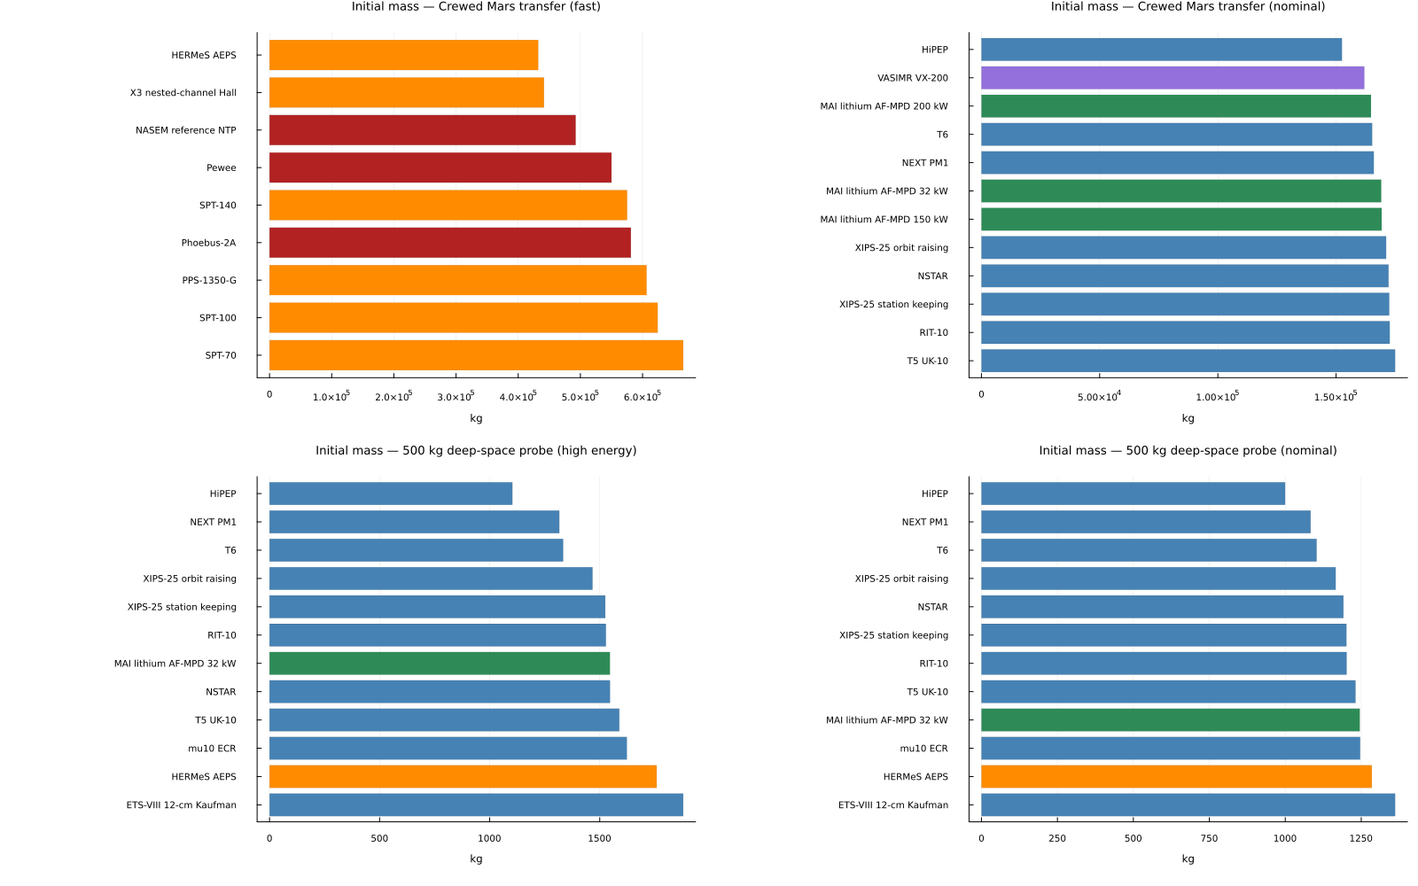
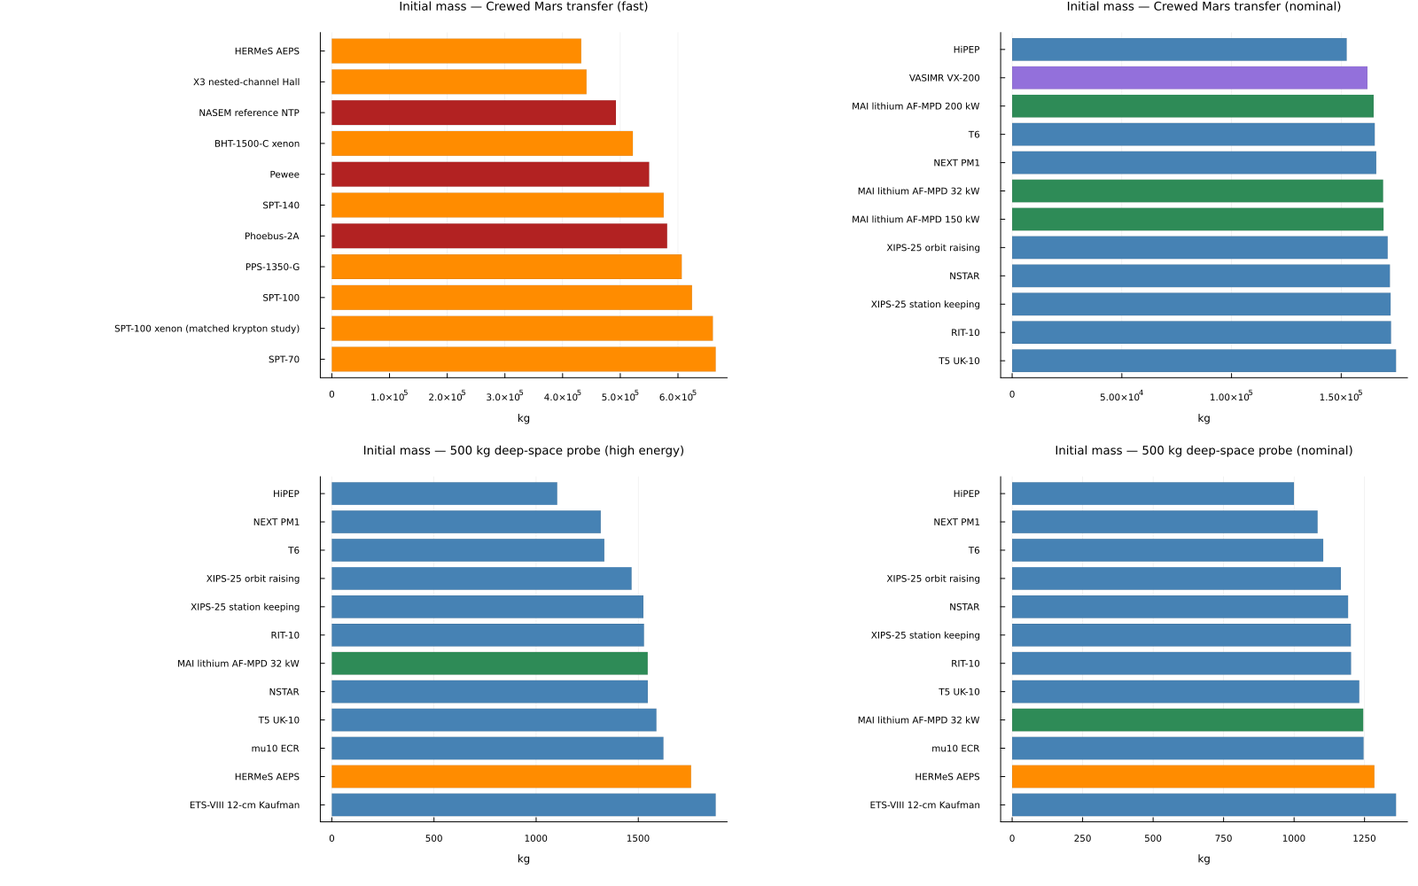
Add measured krypton operating points with matched xenon controls
Three measured krypton points, each paired with a xenon control taken on the same
thruster in the same facility, so the propellant comparison needs no correction
factor. 26 thrusters becomes 31, 104 result rows becomes 124.

spt100_kr_390v has thrust, Isp, power and efficiency all measured and mutually
consistent to 0.00025, from the 205-hour SPT-100 krypton life test. The derived
xenon thrust in the nominal pair reproduces the 80 mN flight figure cited
independently in S01, which validates the derivation used across the dataset.

Krypton wins on mass in every pair and loses on time in every one, and the sign
reverses where the time cap binds: on the fast Mars mission all three krypton rows
fail the 210-day limit while all three xenon controls pass. The comparison carries
no tank model, and krypton asks 2.2 times the volume for the propellant it saves.

Headline recommendations are unchanged; krypton enters no Mars top six.

Adds sources S30-S32, updates S12 with authors, adds the krypton_vs_xenon figure,
and rewrites the krypton sections of both documents.

diff --git a/docs/findings.md b/docs/findings.md
@@ -19,16 +19,16 @@ The database is not version controlled; it is rebuilt from `sql/schema.sql` and 
 
 ## What was computed, and on what assumptions
 
-For each of 4 missions and each of 26 thrusters that records a specific impulse, the
+For each of 4 missions and each of 31 thrusters that records a specific impulse, the
 pipeline computes exhaust velocity, Tsiolkovsky mass ratio, propellant mass fraction,
 propellant and initial mass, thruster count, total thrust and power, and power-limited
-thrusting time. That is 104 rows, of which 86 are feasible.
+thrusting time. That is 124 rows, of which 103 are feasible.
 
 Three assumptions carry the result. None is a measurement.
 
 Power plant specific mass is taken as 20 kg/kW for nuclear electric and 12 kg/kW for solar
 electric. Thruster plus power processing dry mass, where a source does not give one, is
-taken as 5 kg/kW; this applies to 24 of the 26 rows. Mission payload masses, delta-v and
+taken as 5 kg/kW; this applies to 29 of the 31 rows. Mission payload masses, delta-v and
 trip-time caps are stated project assumptions, with only the 2 MWe and 6 MWe power levels
 traceable to a source [S18].
 
@@ -41,7 +41,7 @@ support. NTP can therefore be compared on mass here, and cannot be compared on t
 
 ## Crewed Mars transfer, nominal
 
-90 t payload, 7000 m/s, 2 MWe, 365-day cap. 25 of 26 candidates are feasible; the only
+90 t payload, 7000 m/s, 2 MWe, 365-day cap. 30 of 31 candidates are feasible; the only
 failure is the NPT30-I2, a 1 mN cubesat thruster that has no business on this mission.
 
 | rank | thruster | type | propellant | initial mass kg | propellant kg | mass fraction | days | units |
@@ -65,7 +65,7 @@ VASIMR and the two lithium MPD thrusters, are the least mature hardware in the s
 
 ## Crewed Mars transfer, fast
 
-90 t payload, 15 000 m/s, 6 MWe, 210-day cap. Only 9 of 26 are feasible, and the pattern of
+90 t payload, 15 000 m/s, 6 MWe, 210-day cap. Only 11 of 31 are feasible, and the pattern of
 failure is the result.
 
 | rank | thruster | type | propellant | initial mass kg | propellant kg | mass fraction | days | units |
@@ -73,11 +73,13 @@ failure is the result.
 | 1 | HERMeS AEPS | Hall | xenon | 432 221 | 192 221 | 0.445 | 196.9 | 480 |
 | 2 | X3 nested-channel Hall | Hall | xenon | 441 420 | 201 720 | 0.457 | 177.0 | 60 |
 | 3 | NASEM reference NTP | nuclear thermal | hydrogen | 492 422 | 402 422 | 0.817 | not evaluated | - |
-| 4 | Pewee | nuclear thermal | hydrogen | 550 021 | 460 021 | 0.836 | not evaluated | - |
-| 5 | SPT-140 | Hall | xenon | 575 179 | 335 179 | 0.583 | 173.1 | 1200 |
-| 6 | Phoebus-2A | nuclear thermal | hydrogen | 581 229 | 491 229 | 0.845 | not evaluated | - |
+| 4 | BHT-1500-C xenon | Hall | xenon | 521 683 | 281 686 | 0.540 | 186.8 | 3333 |
+| 5 | Pewee | nuclear thermal | hydrogen | 550 021 | 460 021 | 0.836 | not evaluated | - |
+| 6 | SPT-140 | Hall | xenon | 575 179 | 335 179 | 0.583 | 173.1 | 1200 |
+| 7 | Phoebus-2A | nuclear thermal | hydrogen | 581 229 | 491 229 | 0.845 | not evaluated | - |
 
-Every gridded ion thruster fails, as do all three lithium MPD thrusters and VASIMR. They
+Every gridded ion thruster fails, as do all three lithium MPD thrusters, VASIMR and all
+three krypton rows, each of which fails where its matched xenon control passes. They
 fail on time, not on mass. The power-limited thrusting time scales with the square of
 exhaust velocity at fixed power, so the high specific impulse that wins the nominal mission
 is exactly what loses the fast one. The survivors are the low-Isp, high-thrust-density Hall
@@ -129,12 +131,62 @@ and T6 are second and third at a cost of 8 % and 10 % in initial mass, and both 
 qualified hardware, with T6 flying on BepiColombo [S26] and NEXT having completed its
 ground qualification [S02]. For a 500 kg probe the defensible choice is NEXT or T6.
 
+## Krypton against xenon on matched hardware
+
+The dataset carries three measured krypton operating points, each with a xenon control taken
+on the same thruster in the same facility, so the propellant can be compared without going
+through a correction factor. The pairs behave the same way on both reference missions.
+
+Crewed Mars nominal:
+
+| thruster | propellant | Isp s | efficiency | initial mass kg | propellant kg | days | units |
+|---|---|---|---|---|---|---|---|
+| BHT-1500-C | krypton | 2160 | 0.474 | 194 817 | 54 823 | 150.3 | 1052 |
+| BHT-1500-C | xenon | 1970 | 0.543 | 201 134 | 61 135 | 121.6 | 1111 |
+| SPT-100 nominal | krypton | 1568 | 0.360 | 220 705 | 80 712 | 153.5 | 1474 |
+| SPT-100 nominal | xenon | 1511 | 0.440 | 224 534 | 84 537 | 122.1 | 1480 |
+
+500 kg probe nominal:
+
+| thruster | propellant | initial mass kg | propellant kg | days | units |
+|---|---|---|---|---|---|
+| BHT-1500-C | krypton | 1471 | 636 | 183.5 | 10 |
+| BHT-1500-C | xenon | 1561 | 722 | 145.1 | 11 |
+| SPT-100 nominal | krypton | 1822 | 987 | 197.6 | 14 |
+| SPT-100 nominal | xenon | 1876 | 1041 | 159.0 | 14 |
+
+Krypton wins on mass in every pair, by 3.1 % for the BHT-1500-C and 1.7 % for the SPT-100 on
+the crewed mission, and loses on time by 24 % and 26 %. That split follows from the structure
+of the model rather than from anything subtle. At a fixed available power, specific impulse
+sets propellant mass and efficiency sets thrust, so krypton's higher specific impulse shows
+up as less propellant while its lower efficiency shows up as a longer burn. Wherever the
+trip-time cap is slack, krypton looks better.
+
+Where the cap binds, the sign reverses completely. On the fast Mars mission all three krypton
+rows fail the 210-day limit while all three xenon controls pass: the BHT-1500-C needs 225.8
+days on krypton against 186.8 on xenon, and the SPT-100 at 393 V needs 239.5 against 202.4.
+Krypton is not a drop-in substitution whose cost is a fixed efficiency penalty; it moves a
+vehicle along the mass-against-time trade, and which direction counts as better depends
+entirely on which constraint is active.
+
+Two things keep this from being a recommendation. The first is tankage, which the model does
+not carry. For the probe, the BHT-1500-C needs 636 kg of krypton in 0.98 m³ against 722 kg of
+xenon in 0.45 m³ at the storage densities in the propellants table, so krypton saves 86 kg of
+propellant while asking for 2.2 times the tank volume. Whether the tank mass for that volume
+is under 86 kg decides the comparison, and no source consulted gives tank mass for a krypton
+system. The second is that krypton reaches no higher than fourteenth on the probe and does not
+enter the top six on either Mars mission. The leaders everywhere are high-Isp gridded ion
+thrusters on xenon, and adding krypton moved none of them.
+
+`docs/figures/krypton_vs_xenon.png` plots the pairs across all three missions, with the rows
+that fail their time cap drawn pale.
+
 ## Agreement between the implementations
 
 The Scala and Julia pipelines implement the relations separately rather than sharing code.
 The Julia test suite joins both producers' rows in the `results` table and requires
-agreement to 1e-9 relative. All 104 rows agree on initial mass, propellant mass, trip time
-and thruster count. 878 Julia tests and 26 Scala self-tests pass, and SQL validation
+agreement to 1e-9 relative. All 124 rows agree on initial mass, propellant mass, trip time
+and thruster count. 1038 Julia tests and 26 Scala self-tests pass, and SQL validation
 reports no errors over 17 checks.
 
 The Lean development proves the relations the comparison uses, including
@@ -168,8 +220,8 @@ The probe rankings do not move. HiPEP, NEXT and T6 hold the top three places acr
 combination tried, with only the fourth and fifth places exchanging. The probe conclusion
 can be relied on; the crewed Mars conclusion cannot.
 
-Figures are in `docs/figures`: `trip_time.png`, `initial_mass.png`, `propellant_mass.png`
-and `isp_vs_trip_time.png`.
+Figures are in `docs/figures`: `trip_time.png`, `initial_mass.png`, `propellant_mass.png`,
+`isp_vs_trip_time.png` and `krypton_vs_xenon.png`.
 
 ## The three unknowns that would most change these results
 
@@ -184,8 +236,8 @@ crewed NEP trip time, including the ones here, rests on an assumed value. A grou
 demonstration at even 100 kWe with measured mass, including radiators and power
 conditioning, would settle more about crewed Mars propulsion than any thruster programme.
 
-**Thruster and power-processing dry mass.** The dataset records a dry mass for 2 of 26
-thrusters. The other 24 use an assumed 5 kg/kW, and the validation run emits 26
+**Thruster and power-processing dry mass.** The dataset records a dry mass for 2 of 31
+thrusters. The other 29 use an assumed 5 kg/kW, and the validation run emits 29
 `dry_mass_unknown` warnings to make that visible. The gap is in the literature rather than
 in the transcription: performance papers report thrust, specific impulse, power and
 efficiency, and very often omit mass. Because the assumption scales with power, it
@@ -211,17 +263,27 @@ propellant mass by thruster count gives what each unit must process:
 | Mars nominal | PPS-1350-G | 1333 | 57 |
 | Mars nominal | NSTAR | 860 | 41 |
 
-The only in-flight throughput figure in the dataset is the PPS-1350-G, which processed 82 kg
-of xenon over about 5000 hours on SMART-1 [S01]. The candidates that need fewest units, and
-that look best on mass, are the ones requiring one to two orders of magnitude more
-throughput per unit than that, from hardware whose life has never been characterised: the
-X3 at 2306 kg per unit, with cathodes drawing 247 A that are a research item rather than a
-product [S08], and the lithium MPD thrusters at 2553 kg per unit, whose published test
-durations are short and whose electrode erosion is largely uncharacterised [S13]. Running
-the trade the other way, the thrusters whose throughput requirement sits inside demonstrated
-experience are the ones needing hundreds or thousands of units. Qualified throughput per
-thruster, measured to the duration a Mars mission actually needs, would decide between those
-two bad options, and nothing in the present data can.
+The throughput actually demonstrated is far below all of this. The best-qualified figure in
+the dataset is the SPT-100, validated past 2.71 MN·s of total impulse, about 9000 hours at its
+nominal condition [S31]; at its measured 1511 s that is roughly 183 kg of xenon per thruster.
+The PPS-1350-G accumulated 82 kg over about 5000 hours in flight on SMART-1 [S01]. The
+candidates that need fewest units, and that look best on mass, are the ones requiring one to
+two orders of magnitude more throughput per unit than those figures, from hardware whose life
+has never been characterised: the X3 at 2306 kg per unit, with cathodes drawing 247 A that are
+a research item rather than a product [S08], and the lithium MPD thrusters at 2553 kg per unit,
+whose published test durations are short and whose electrode erosion is largely
+uncharacterised [S13]. Running the trade the other way, the thrusters whose throughput
+requirement sits inside demonstrated experience are the ones needing hundreds or thousands of
+units.
+
+Krypton makes this worse rather than better. It cuts propellant mass per unit, which helps,
+but the longest published krypton run on any thruster is the 205 hours the SPT-100 managed at
+2 kW [S31], against roughly 9000 hours qualified on xenon. The same paper notes that running
+its example mission on krypton would put as much energy through the thruster as 8800 hours of
+nominal xenon operation, and that whether the hardware survives that is unknown [S31].
+Qualified throughput per thruster, measured to the duration a Mars mission actually needs and
+on the propellant actually proposed, would decide between these options, and nothing in the
+present data can.
 
 ## What this comparison does not settle
 
@@ -238,8 +300,13 @@ The delta-v figures and payload masses are project assumptions. They are decompo
 named legs in `DELTA_V_BUDGETS` and checked against the database, which makes them explicit
 and auditable, but it does not make them right.
 
-Krypton and iodine appear in the propellants table and in the survey, but no krypton
-thruster is in the dataset, because the krypton literature reports efficiency as a range
-against xenon rather than as a standalone operating point [S12]. A krypton comparison would
-need measured krypton performance for a specific thruster, not a penalty applied to a xenon
-number.
+Krypton is compared here without a tank model, which is the one thing that could overturn the
+matched-pair result above. Iodine appears in the propellants table and in the survey but
+contributes only the NPT30-I2, a 1 mN cubesat thruster that fails both reference missions on
+thrust; there is no kilowatt-class iodine operating point to add, because none has been
+published [S11].
+
+Argon is represented only by VASIMR, which is a 200 kW laboratory device run in one-to-two
+minute pulses [S15]. Its third place on the crewed Mars nominal mission rests on a peak
+performance point, not on anything sustained, and the longest continuous run of the follow-on
+hardware was 88 hours at 80 kW [S16].

diff --git a/docs/survey.md b/docs/survey.md
@@ -272,17 +272,50 @@ supercritical fluid at moderate pressure, and is chemically inert. It is also sc
 produced as a by-product of air separation in quantities that constellation-scale electric
 propulsion can visibly move.
 
-Krypton is the first substitution. It is cheaper and more abundant, and its lower atomic mass gives
-it a theoretical specific impulse about 25% above xenon. The measured picture is worse than the
-theory. Krypton achieves up to 92% of xenon's specific impulse at comparable operating conditions,
-and the realised value falls well short of the theoretical figure because krypton is harder to
-ionise [S12]. The absolute efficiency gap against xenon spans 6 to 24 percentage points depending on
-the thruster and condition, with reported anode-efficiency degradation of 20 to 23% in some studies
-and 9 to 18% at discharge powers from 4.5 to 9 kW in others [S12]. The losses are attributed mainly
-to mass utilisation and beam divergence [S12]. Krypton's smaller ionisation cross-section and higher
-ionisation energy also narrow the stable operating window; one 300 W-class study found unstable
-operation below 250 V and above 450 V anode voltage [S12]. Lower storage density is a further
-penalty, since the same tank volume holds less propellant mass.
+Krypton is the first substitution. It is cheaper and more abundant, and its lower atomic mass
+gives it a theoretical specific impulse about 25% above xenon at the same discharge potential
+[S12]. The measured picture is worse than the theory, and the dataset now carries three
+measured krypton operating points with a matched xenon control for each, so the penalty can
+be read off directly rather than taken as a range.
+
+| thruster | propellant | power W | Isp s | total efficiency | thrust mN |
+|---|---|---|---|---|---|
+| SPT-100, nominal 302 V [S30] | krypton | 1356 | 1568 | 0.360 | 63.5 |
+| SPT-100, nominal 302 V [S30] | xenon | 1351 | 1511 | 0.440 | 80.2 |
+| SPT-100, 393 V [S31] | krypton | 1977 | 1966 | 0.423 | 86.7 |
+| BHT-1500-C, 400 V [S12] | krypton | 1900 | 2160 | 0.474 | 85.0 |
+| BHT-1500-C, 400 V [S12] | xenon | 1800 | 1970 | 0.543 | 101.2 |
+
+The SPT-100 nominal pair is the clearest statement of the problem. On the same flight-model
+thruster in the same facility, krypton gave 1568 s against 1511 s for xenon, so the 25%
+theoretical gain in specific impulse arrived as under 4% [S30]. Total efficiency fell from
+0.440 to 0.360, eight points. The thrust figures in the table for that pair are derived from
+the measured specific impulse and efficiency; the derived xenon value of 80.2 mN reproduces
+the 80 mN flight figure quoted independently in [S01], which is a check on the derivation.
+The 393 V SPT-100 row is the one whose thrust, specific impulse and efficiency were all
+measured directly, and they agree with each other to within 0.0003 in efficiency [S31].
+
+The BHT-1500-C pair shows what a thruster designed around the propellant can recover.
+Krypton raised specific impulse by about 190 s at nearly equivalent discharge power and
+potential, and cost 7 to 8 points of efficiency rather than the SPT-100's eight on a much
+lower base [S12]. Running the SPT-100 harder helps too: at 393 V krypton reaches 1966 s at
+0.423 efficiency [S31], which is most of the BHT-1500-C's specific impulse.
+
+The losses are attributed mainly to propellant utilisation and beam divergence [S12][S32].
+Krypton's smaller ionisation cross-section and higher ionisation energy also narrow the
+stable operating window; one 300 W-class study found unstable operation below 250 V and
+above 450 V anode voltage [S12]. Linnell and Gallimore found a 5 to 15 percentage point
+reduction in overall efficiency on the NASA-173Mv1 at 6 to 8 kW [S32]. Storage is a separate
+penalty: at 14 MPa and 50 C krypton stores at about one third the density of xenon, though
+the gap closes as temperature falls and at -50 C krypton approaches xenon at 50 C [S12].
+
+Life is less dark than it was. A flight-model SPT-100 ran 205 hours on krypton at 2 kW, 50%
+above its nominal power, holding a steady discharge current and beam profile, with boron
+nitride channel erosion measured by optical profilometry at 100 and 205 hours [S31]. The
+authors could not say whether the thruster would reach the 5860 hours their example
+geosynchronous mission needed, and noted that 5860 hours at that krypton condition puts the
+same energy through the thruster as 8800 hours of nominal xenon operation, against a
+validated xenon capability of about 9000 hours [S31].
 
 Iodine is the most interesting recent change. It is stored as a solid and sublimated at low
 temperature, which removes the high-pressure tank entirely and allows severe miniaturisation.
@@ -306,9 +339,23 @@ in 20 K cryocooler technology for hydrogen and 90 K for oxygen and methane [S21]
 
 ### Open problems
 
-Krypton's efficiency penalty is reported as a range, not a number, and the spread of 6 to 24
-percentage points [S12] is wide enough to change the outcome of a mission trade. The dependence on
-thruster size and operating point is not resolved.
+Krypton's efficiency penalty is now measured on specific thrusters rather than quoted as a
+range, but only on three. The SPT-100 loses eight points of total efficiency at its nominal
+condition [S30] and the BHT-1500-C loses seven to eight [S12], which is a narrow enough band
+to design against; whether it holds at the tens of kilowatts a Mars vehicle needs is
+untested, and the one high-power data point in the literature, a 50 kW thruster reported to
+reach similar efficiency on krypton and xenon [S31], has no published operating table behind
+it here.
+
+Krypton tankage is not characterised in a way a trade study can use. The one-third storage
+density figure [S12] is quoted at a single pressure and temperature, and the mass of a tank
+sized for the resulting volume is what decides whether krypton's propellant saving survives
+to the vehicle level. No source consulted gives tank mass for a krypton system.
+
+Krypton erosion and life remain open. The 205-hour test [S31] is the longest published run
+and is two orders of magnitude short of a qualification life. Its authors could not conclude
+whether the thruster would survive their own example mission, and said plainly that serious
+use of krypton would require long-duration life testing [S31].
 
 Iodine is chemically aggressive. It attacks many spacecraft materials, and long-duration
 compatibility data for grids, cathodes, and external surfaces does not exist at mission timescales.
@@ -373,8 +420,9 @@ presented as settled.
 - `[S11]` Rafalskyi, D., et al., "In-orbit demonstration of an iodine electric propulsion system",
   *Nature*, vol. 599, November 2021. DOI 10.1038/s41586-021-04015-y.
   https://www.nature.com/articles/s41586-021-04015-y
-- `[S12]` "Measurements of a Krypton Fed 1.5 kW Hall Effect Thruster", IEPC-2017-26, 35th
-  International Electric Propulsion Conference, Atlanta, 2017.
+- `[S12]` Szabo, J., Tedrake, R., Kolencik, G., and Pote, B., "Measurements of a Krypton Fed
+  1.5 kW Hall Effect Thruster with a Centrally Located Cathode" (BHT-1500-C), IEPC-2017-26,
+  35th International Electric Propulsion Conference, Atlanta, 2017.
   https://electricrocket.org/IEPC/IEPC_2017_26.pdf
 - `[S13]` "Applied-Field Magnetoplasmadynamic Thrusters for Deep Space Exploration",
   arXiv:2410.17478. https://arxiv.org/pdf/2410.17478
@@ -415,3 +463,14 @@ presented as settled.
   System Architectures and Performances", International Electric Propulsion Conference; and
   "Performance Evaluation of the T6 Ion Engine", *Journal of Propulsion and Power*.
   https://www.semanticscholar.org/paper/493bfc9382080d253e5a6af5a178e21681d302bf
+- `[S30]` Nakles, M. R., Hargus, W. A., Jr., Delgado, J. J., and Corey, R. L., "A Performance
+  Comparison of Xenon and Krypton Propellant on an SPT-100 Hall Thruster", IEPC-2011-003,
+  32nd International Electric Propulsion Conference, Wiesbaden, 2011.
+  https://electricrocket.org/IEPC/IEPC-2011-003.pdf
+- `[S31]` Nakles, M. R., Hargus, W. A., Jr., Delgado, J. J., and Corey, R. L., "A 205 Hour
+  Krypton Propellant Life Test of the SPT-100 Operating at 2 kW", IEPC-2013-347, 33rd
+  International Electric Propulsion Conference, Washington DC, 2013.
+  https://electricrocket.org/IEPC/hu4akp90.pdf
+- `[S32]` Linnell, J. A., and Gallimore, A. D., "Efficiency Analysis of a Hall Thruster
+  Operating with Krypton and Xenon", *Journal of Propulsion and Power*, vol. 22, no. 6,
+  pp. 1402-1418, 2006.

diff --git a/CHANGELOG.md b/CHANGELOG.md
@@ -124,3 +124,48 @@ Full rebuild from a clean database passes end to end: schema loads, 26 Scala sel
 pass, validation reports 0 errors over 17 checks, both pipelines write 104 rows with 86
 feasible, 878 Julia tests pass including agreement with the Scala rows to 1e-9 relative,
 four figures render, Lean builds and all 21 theorems report only the three standard axioms.
+
+## 2026-10-15 (later)
+
+### Krypton thruster data from measured operating points
+- Added three measured krypton operating points, each with a xenon control taken on the same
+  thruster in the same facility, so the propellant can be compared without a correction
+  factor. Thruster count goes from 26 to 31, result rows from 104 to 124, feasible from 86
+  to 103.
+- spt100_kr_390v is the strongest row in the whole dataset: thrust 86.7 mN, Isp 1966 s, power
+  1977 W and total efficiency 0.423 are all measured, and they agree with each other to
+  0.00025 in efficiency. Taken from the 205-hour krypton life test of a flight-model SPT-100.
+- spt100_kr_nom and spt100_xe_nakles are the nominal-condition pair from the same programme.
+  The derived xenon thrust of 80.2 mN reproduces the 80 mN flight figure quoted independently
+  in S01, which checks the derivation method used for every derived thrust in the dataset.
+- bht1500c_kr and bht1500c_xe are the Busek pair, the best krypton point reported and its
+  nearest matched xenon condition.
+- New sources S30 (IEPC-2011-003), S31 (IEPC-2013-347 life test) and S32 (Linnell and
+  Gallimore, JPP 2006). S12 updated with authors and the BHT-1500-C designation.
+- All five rows pass the efficiency consistency check with residuals below 0.0003.
+
+### What the krypton data shows
+- Krypton wins on mass in every matched pair and loses on time in every one: 3.1 percent less
+  initial mass and 24 percent more thrusting time for the BHT-1500-C on crewed Mars nominal.
+  At fixed available power, Isp sets propellant mass and efficiency sets thrust, so krypton's
+  trade lands on different axes.
+- Where the time cap binds the sign reverses. On the fast Mars mission all three krypton rows
+  fail the 210-day limit while all three xenon controls pass.
+- The comparison carries no tank model, which is the one thing that could overturn this. For
+  the probe, krypton saves 86 kg of propellant and asks for 2.2 times the tank volume.
+- Krypton reaches no higher than fourteenth on the probe and enters no Mars top six. The
+  headline recommendations are unchanged.
+- The SPT-100 nominal pair shows the theoretical 25 percent Isp gain arriving as under 4
+  percent: 1568 s against 1511 s on the same thruster.
+
+### Documents and figures
+- docs/survey.md krypton section rewritten around the measured points, with a table of the
+  five rows and their provenance. Krypton open problems rewritten: the efficiency penalty is
+  now measured rather than a range, but tankage and life remain open. The 205-hour test is
+  the longest published krypton run and is two orders of magnitude short of qualification.
+- docs/findings.md gains a matched-hardware section, updated counts throughout, and a
+  rewritten throughput unknown that now uses the SPT-100 qualified figure of 2.71 MN-s, about
+  183 kg of xenon per thruster, as the anchor instead of the PPS-1350-G flight accumulation.
+- New figure docs/figures/krypton_vs_xenon.png plots the pairs across three missions with
+  time-cap failures drawn pale.
+- Sensitivity conclusions are unchanged; the new rows enter no top five in any case tried.
